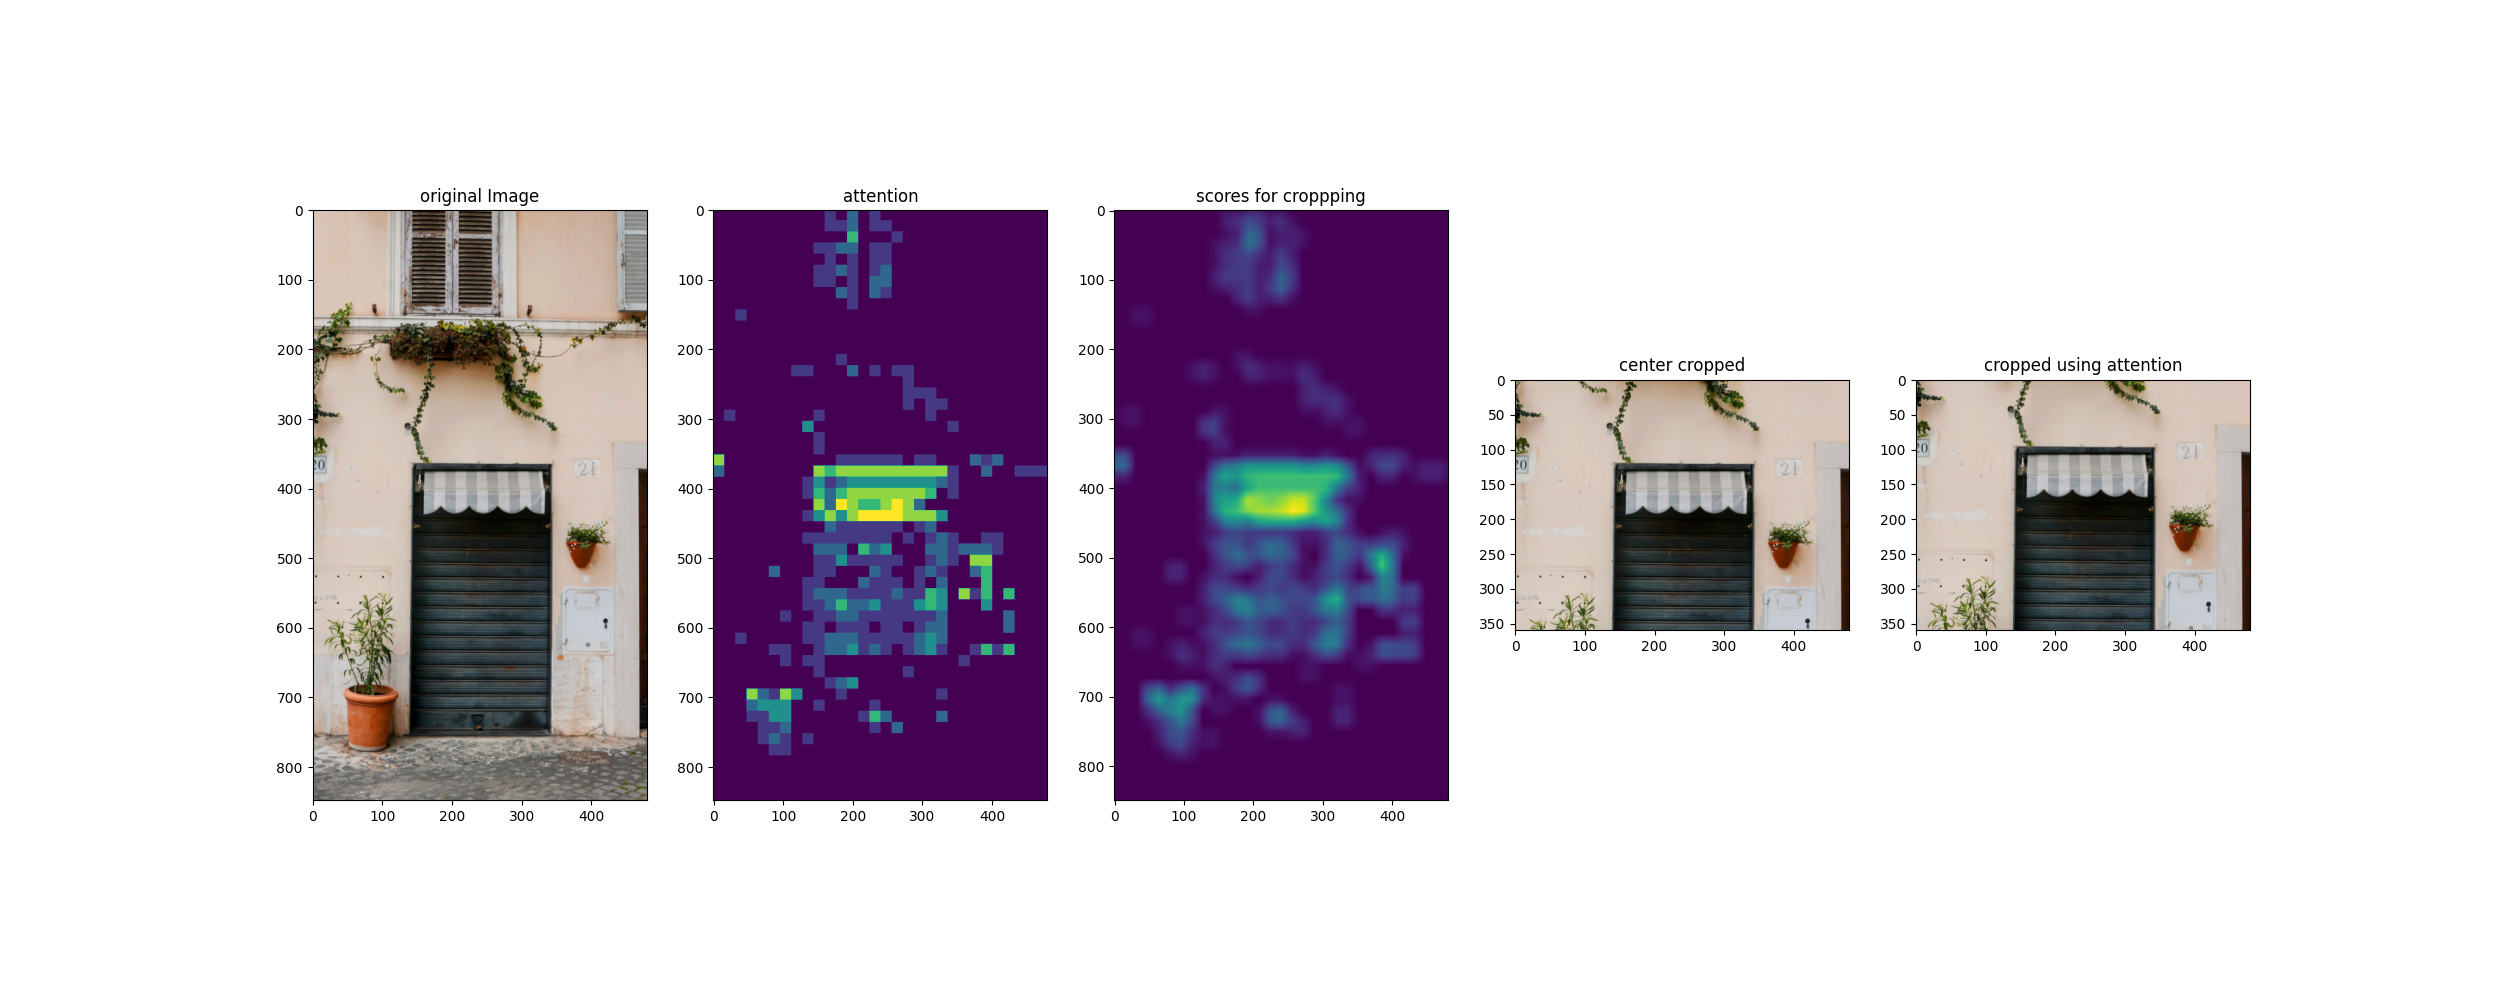
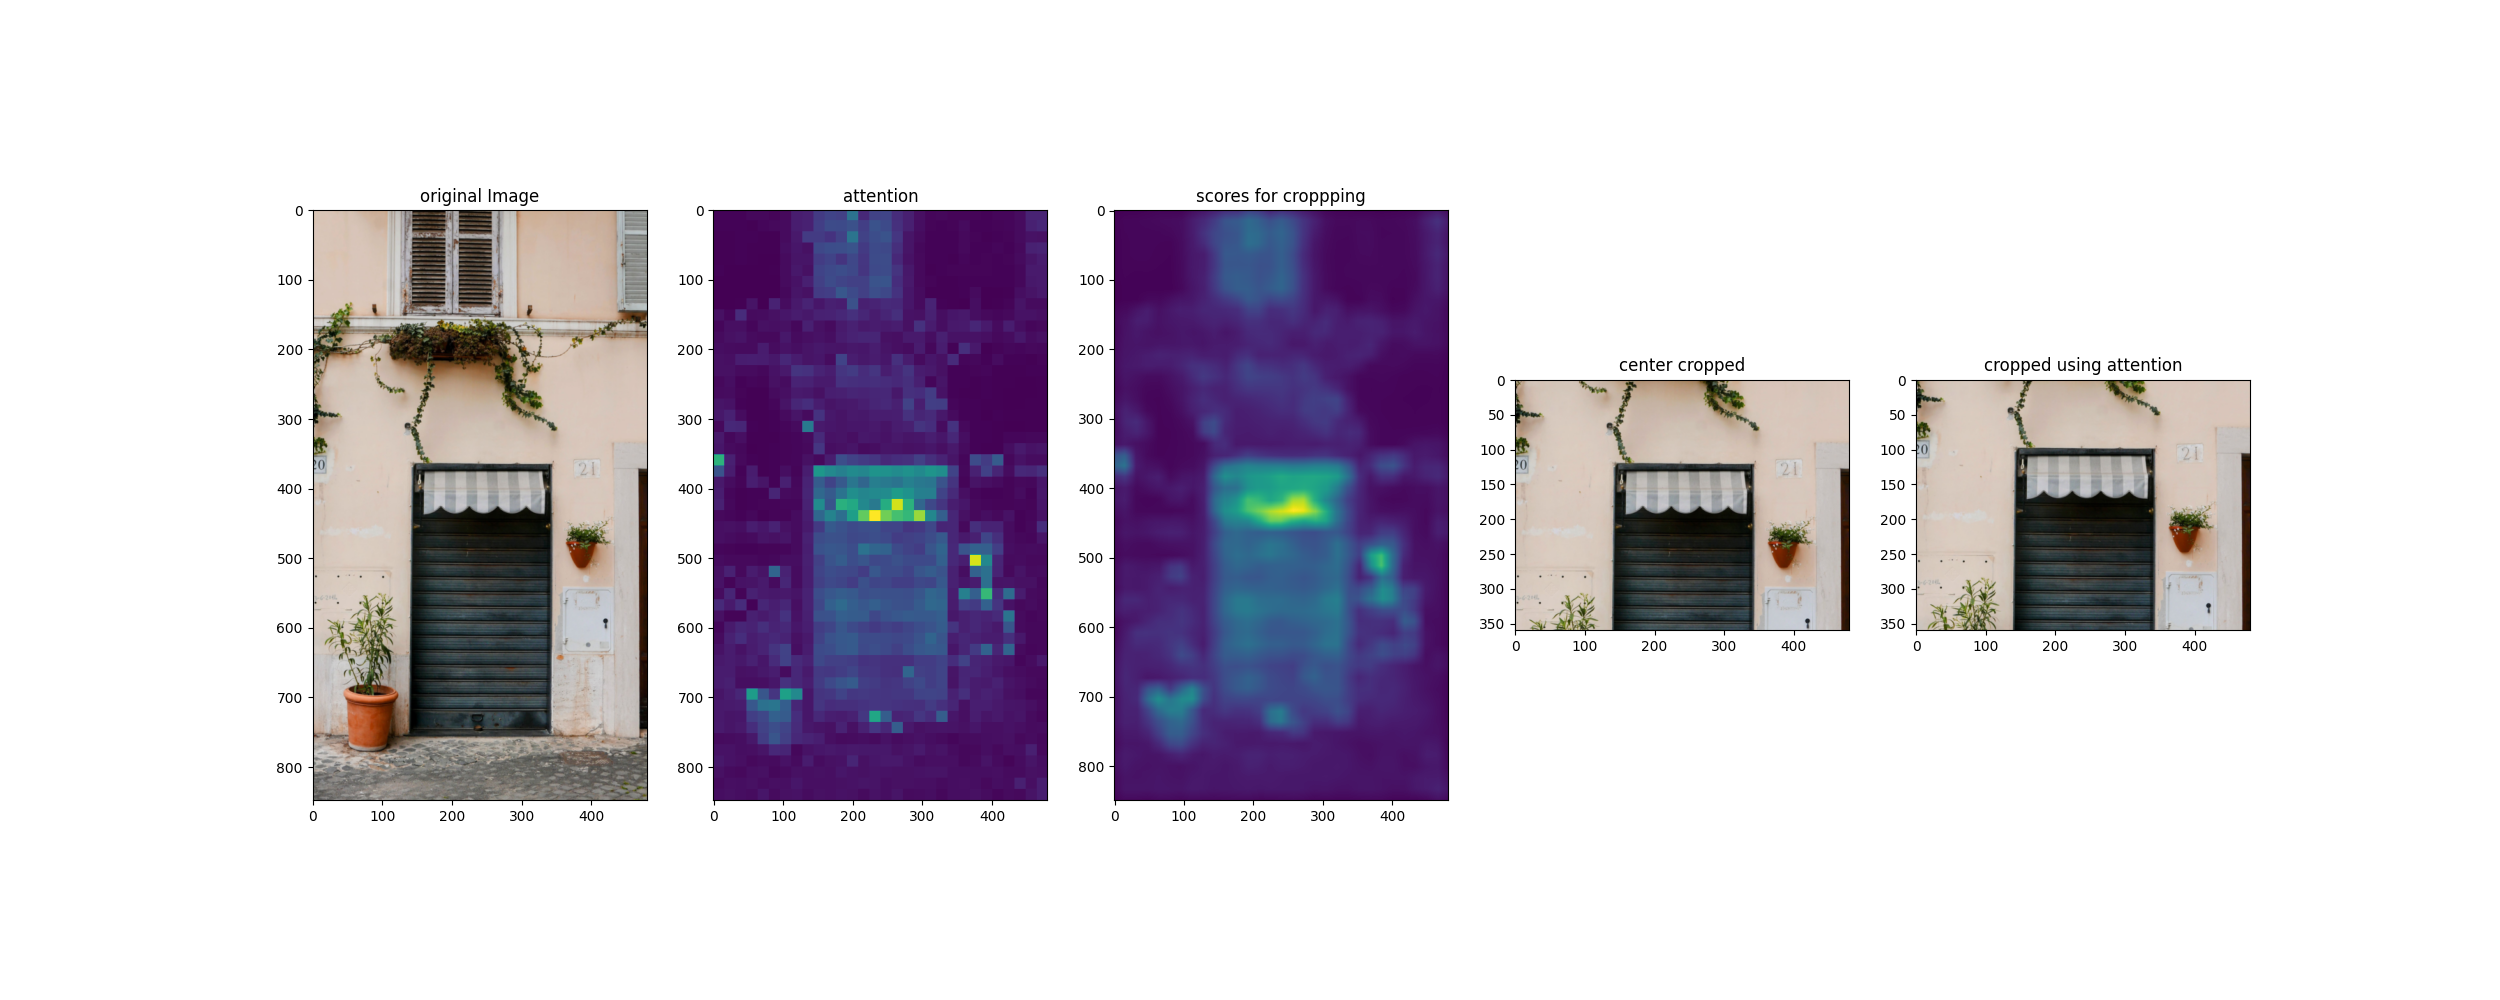
threshold -> 0

diff --git a/visualize_cropping.py b/visualize_cropping.py
@@ -12,7 +12,7 @@ flags.DEFINE_integer("image_size", 480, help="input image size")
 flags.DEFINE_string("model", "dino_vits", help="model name")
 flags.DEFINE_integer("patch_size", 16, help="dino patch size")
 
-flags.DEFINE_float("threshold", 0.3, help="threhsold (pass 0 to disable)")
+flags.DEFINE_float("threshold", 0, help="threhsold (set 0 to disable)")
 flags.DEFINE_string("output", "output.png", help="Image output path")
 flags.DEFINE_integer("sum_span", 30, "sum span")
 flags.DEFINE_integer("output_width", 480, "output image size")
